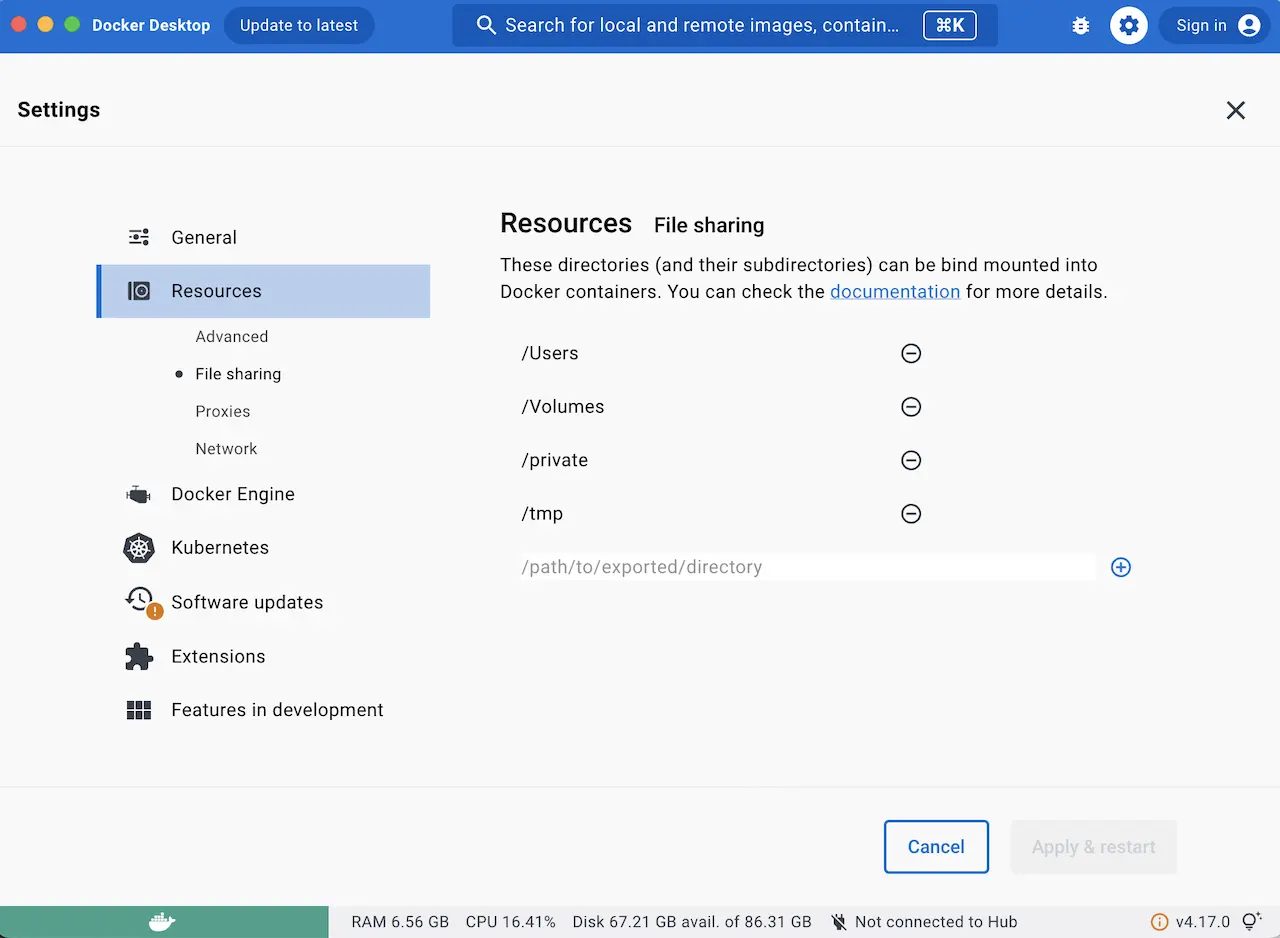
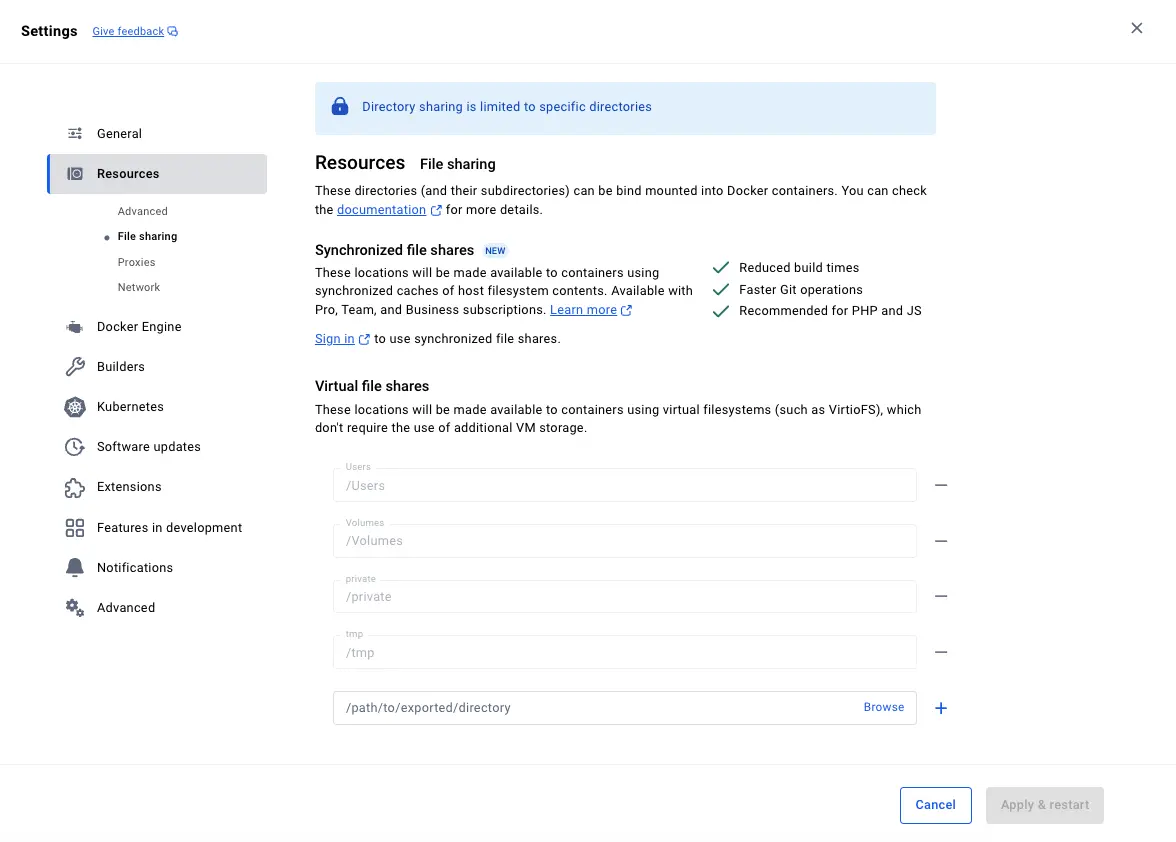
Add how to persist indexes for MacOS #7816 (#1981)
* Add how to persist indexes for MacOS

* Update based on review

* Update based on review.

* Update installation.rst

---------

diff --git a/source/by-role/system-admin/installation.rst b/source/by-role/system-admin/installation.rst
@@ -148,7 +148,7 @@ For MacOS users, the following applies:
 
 #. Docker is used to run OpenSearch and needs to be installed.
    Follow the instructions `here <https://docs.docker.com/install/>`__ to install Docker. |br| (MacOS is not supported by
-   OpenSearch so Docker is used to run OpenSearch. See <https://opensearch.org/docs/latest/install-and-configure/os-comp/>
+   OpenSearch so Docker is used to run OpenSearch. See https://opensearch.org/docs/latest/install-and-configure/os-comp/
    for more information.)
 
    When starting up CrafterCMS on MacOS, the following message is displayed:
@@ -175,6 +175,26 @@ For MacOS users, the following applies:
        :width: 80 %
        :align: center
        :alt: OpenSearch Docker container started on CrafterCMS startup
+
+   .. warning::
+       By default, search indexes do not persist across restarts. If you want the OpenSearch indexes to persist
+       across restarts, you must use bind mounts with Docker volumes.
+
+       By default, the OpenSearch container created when starting CrafterCMS creates the bind mounts for you.
+       Your host ``CRAFTER_HOME/data/indexes`` directory is bind mounted to ``/usr/share/opensearch/data/`` of the
+       OpenSearch container. You'll just need to make sure that the directory ``CRAFTER_HOME/data/indexes`` on the host
+       is a shared drive in Docker's settings by clicking on Docker Desktop ``Settings`` -> ``Resources`` -> ``File Sharing``
+
+       .. image:: /_static/images/developer/docker/docker-desktop-file-sharing.webp
+           :alt: Docker Desktop - File Sharing
+           :width: 85 %
+           :align: center
+
+       |
+
+       If the directory ``CRAFTER_HOME/data/indexes`` is not under an already shared parent level in Docker Desktop, simply
+       input your path in ``Virtual file shares`` by clicking on ``Browse`` then navigate to the desired folder, then
+       click on the ``+`` button, and finally the ``Apply & restart`` button to add it.
 
 """"""""""""""""""
 Linux Prerequisite
